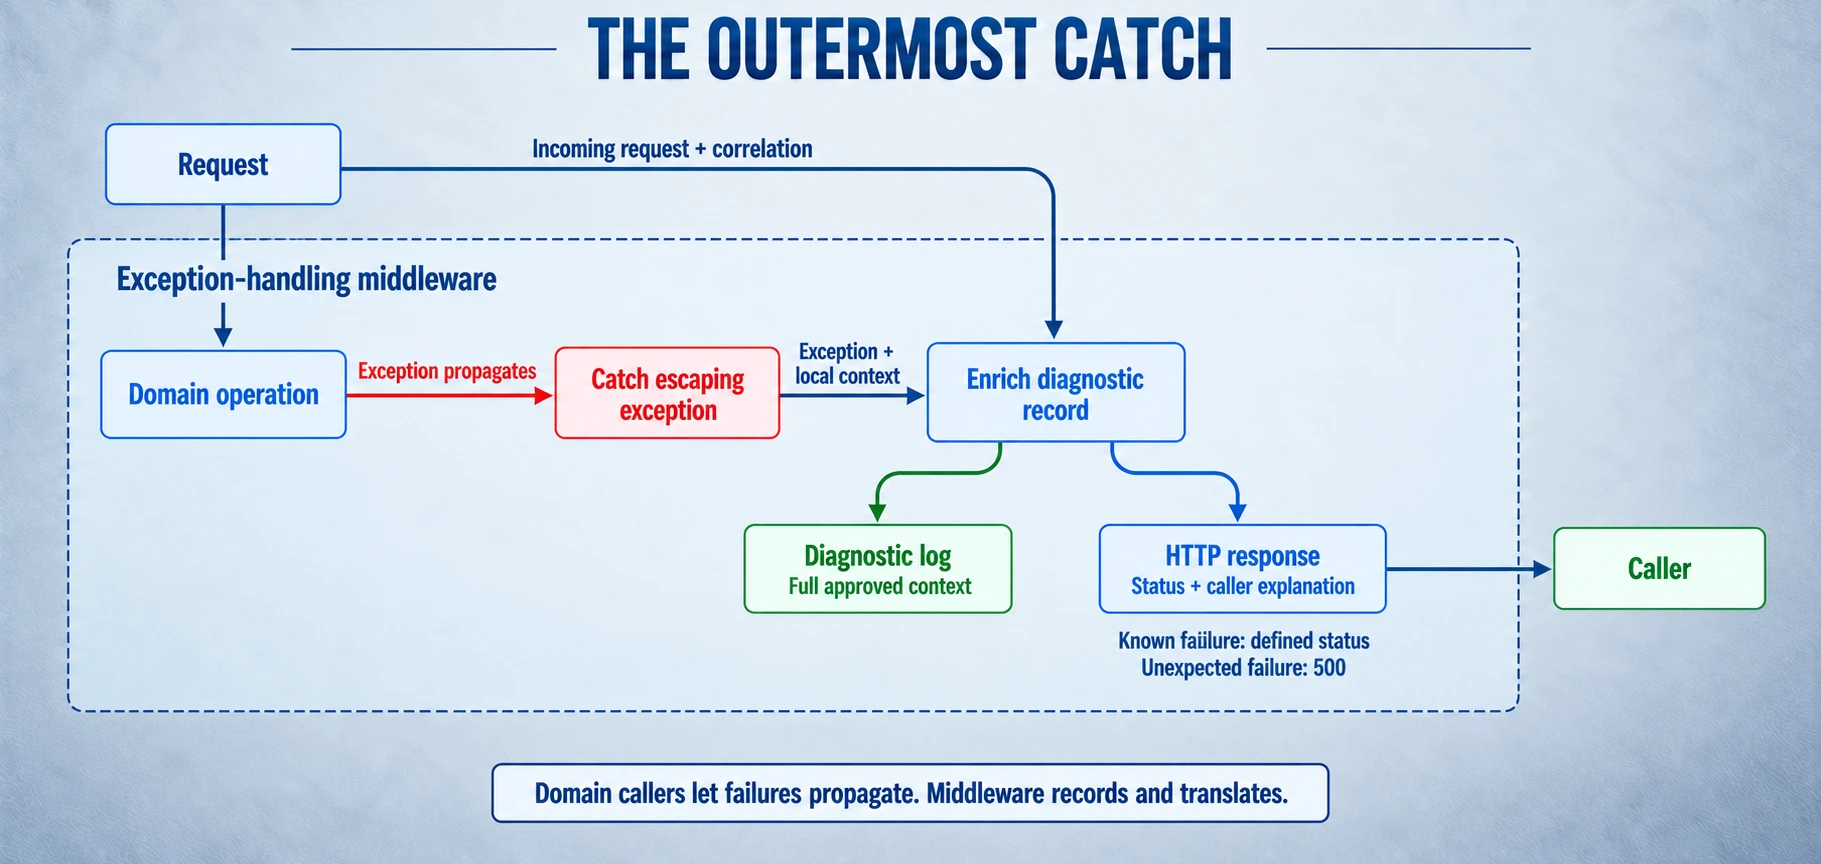
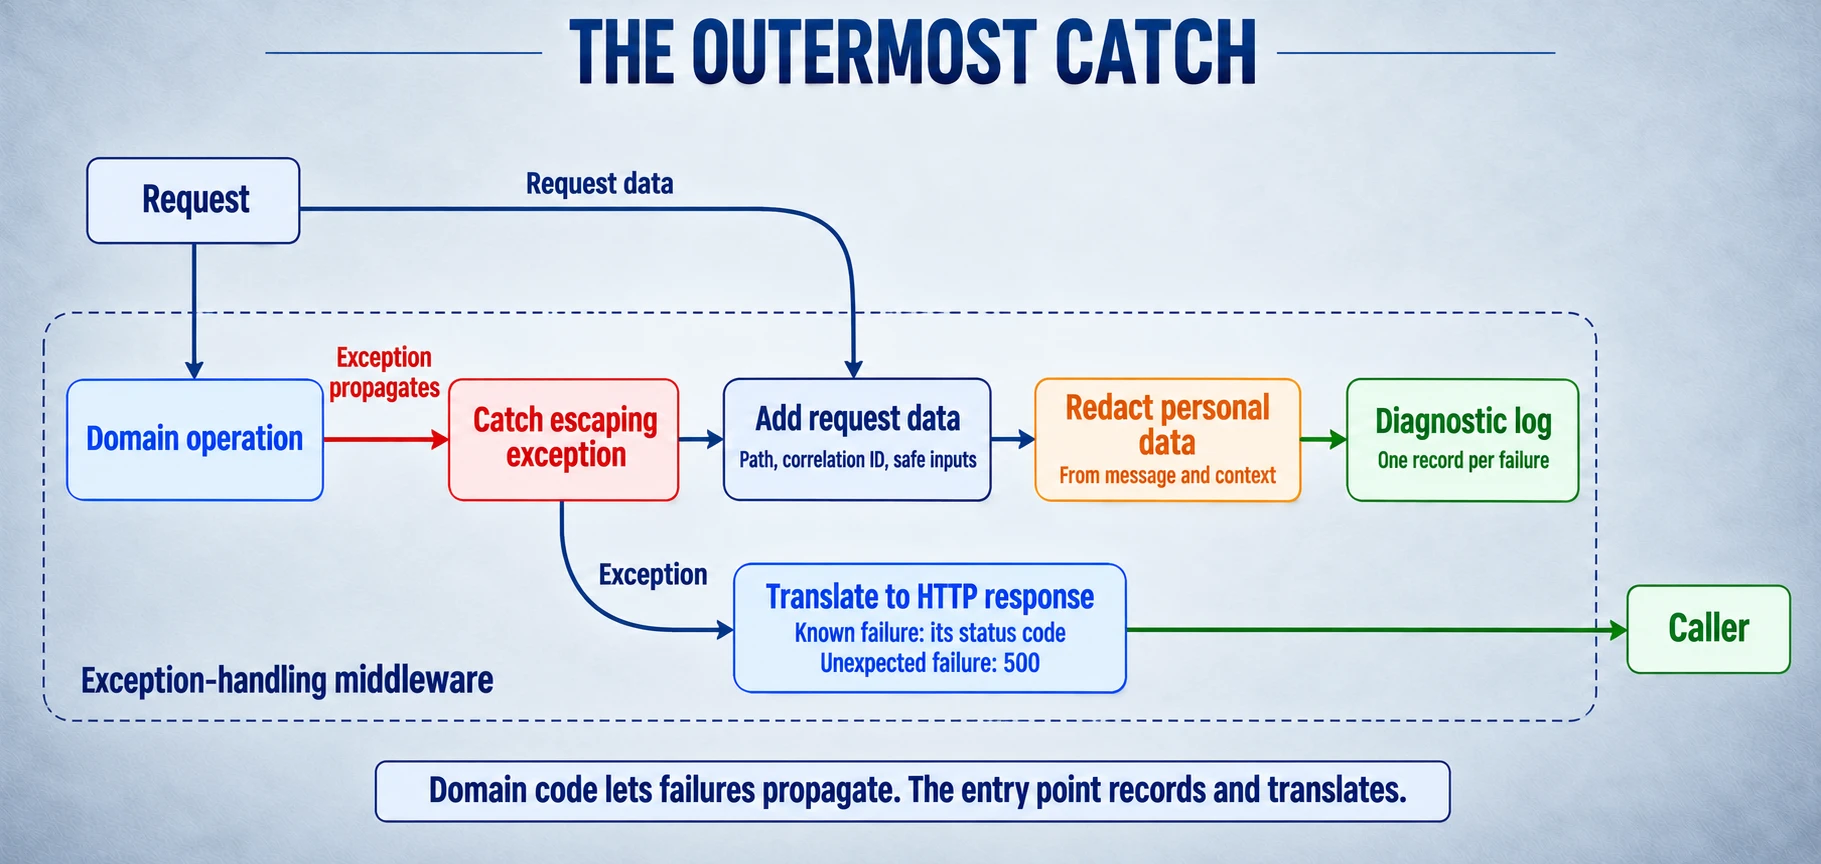
Regenerate the middleware diagram with redaction
The Part 2 middleware diagram misspelled "failure" and skipped the
redaction step the article describes. The new drawing follows the
middleware's order: catch, add request data, redact, log once, and
separately translate the exception for the caller. Alt text, caption,
prompt record and the review backlog are updated. Dates are unchanged.

diff --git a/public/images/diagrams/exception-middleware-enrichment.prompt.md b/public/images/diagrams/exception-middleware-enrichment.prompt.md
@@ -1,10 +1,15 @@
-# exception middleware enrichment
+# Exception middleware enrichment
 
-Generated October 2, 2026, with the built-in image generator and the approved
-flat diagram reference. Selected for the Programming to Exceptions articles.
+Regenerated November 2, 2026, for Step 6 of
+**Programming to Exceptions, Part 2: Diagnostics and Boundaries**. It replaces the
+October 2 drawing, which misspelled "failure" and did not show redaction. The new
+drawing follows the article's middleware: it catches the exception, adds the
+request data, redacts personal data, logs one record, and separately translates
+the exception into the caller's response. Style: the shared flat fine-line prompt
+in `prompts/generate-flat-fine-line-diagram.md`. Style reference attached:
+`docs/style-references/flat-fine-line-diagram.webp`.
 
 ```text
-
 Use case: infographic-diagram.
 
 Create a precise flat technical diagram in the visual style of the supplied
@@ -43,11 +48,19 @@ Avoid doubled borders, thick edge shadows, bevels, extrusion, or dimensional
 platforms. Keep card fills and outlines visually flat.
 
 CONNECTIONS
-Draw crisp navy connectors through open space, using restrained rounded bends
-where needed. Connectors may be slightly heavier than card borders, approximately
+Draw navy arrows through open space. Use straight arrows for aligned top-to-bottom
+connections, perpendicular to both box edges. Use smooth curves for offset
+connections, including branches, merges and routes around components. For top-to-bottom flows,
+leave generous vertical gaps between successive levels of cards and increase
+the canvas height to give each curve room. Avoid right-angle turns and tight
+rounded elbows. Connectors may be slightly heavier than card borders, approximately
 2.5 pixels at an image width of 1820 pixels, with clearly visible arrowheads.
 Keep every endpoint and arrow direction faithful to the drawing brief. Maintain
 clear gaps around unrelated cards and text. Keep independent paths distinct.
+Anchor connectors at edge centers, bottom center to top center for downward flow.
+Branches share a source anchor; converging paths share a destination anchor.
+Allow clear overlap near shared anchors. Use another edge's center when direction
+requires it.
 For inheritance diagrams, arrowheads point from descendants toward ancestors.
 For other diagrams, use the directions and relationship meanings in the brief.
 
@@ -69,10 +82,89 @@ connections, boundaries, and labels in the brief. No copied reference content,
 invented relationships, unrelated decoration, logo, or watermark.
 
 DRAWING BRIEF
-Title "THE OUTERMOST CATCH". Wide landscape.
-A dashed enclosure "Exception-handling middleware" surrounds a central diagram. A small "Request" card top-left enters a blue "Domain operation" card below. A red arrow labelled "Exception propagates" from Domain operation flows right to "Catch escaping exception".
-Two arrows into a central blue card "Enrich diagnostic record": one from Catch escaping exception labelled "Exception + local context", and a separate connector from original Request card labelled "Incoming request + correlation". Preserve visibly that middleware has both inputs.
-Enrich diagnostic record splits into two independent outputs: lower-left "Diagnostic log" with subtitle "Full approved context", lower-right "HTTP response" with subtitle "Status + caller explanation". Response arrow leaves middleware to an external "Caller" card. Diagnostic log is internal. A small note under HTTP response: "Known failure: defined status" and "Unexpected failure: 500". Do not show logging as recovery or returning into Domain operation.
-Footer "Domain callers let failures propagate. Middleware records and translates."
-All connectors exact origin to destination and clearly directional. Red for failure propagation, navy for request and processing, green or blue for normal HTTP/log outputs. Seven named cards Request, Domain operation, Catch escaping exception, Enrich diagnostic record, Diagnostic log, HTTP response, Caller. No inheritance symbols or icons. Clean typography and delicate outlines.
+Subject and reader takeaway: the exception-handling middleware is the only
+try/catch in the system, at its entry point. A failure propagates out of the
+domain code and the middleware catches it. On the logging path it adds the
+request data, redacts personal data, and writes one diagnostic record. On the
+response path it translates the exception into the HTTP response the caller
+sees.
+
+Main title, verbatim: "THE OUTERMOST CATCH"
+
+Components, exact labels, and counts (exactly eight cards):
+- "Request": navy card, outside the enclosure, top-left.
+- "Domain operation": vivid-blue card, inside the enclosure, left end of the
+  main row.
+- "Catch escaping exception": red card, inside, main row.
+- "Add request data": navy card, inside, main row. Second smaller line:
+  "Path, correlation ID, safe inputs".
+- "Redact personal data": orange card, inside, main row. Second smaller line:
+  "From message and context".
+- "Diagnostic log": green card, inside, right end of the main row. Second
+  smaller line: "One record per failure".
+- "Translate to HTTP response": vivid-blue card, inside, on a lower row,
+  directly below "Add request data". Two smaller lines inside it:
+  "Known failure: its status code" and "Unexpected failure: 500".
+- "Caller": green card, outside the enclosure on the far right, level with
+  "Translate to HTTP response".
+
+Groups and their complete members: one lightly dashed rounded navy enclosure
+labelled at its BOTTOM-left inside corner "Exception-handling middleware",
+below "Domain operation", where no arrow passes; no arrow may cross the label. It
+contains completely: Domain operation, Catch escaping exception, Add request
+data, Redact personal data, Diagnostic log, Translate to HTTP response.
+"Request" and "Caller" are fully outside it.
+
+Connections: origin, destination, direction, and relationship meaning
+(exactly eight arrows):
+1. Navy arrow from "Request" down into the top of "Domain operation".
+2. Red arrow from "Domain operation" right to "Catch escaping exception",
+   labelled "Exception propagates".
+3. Navy arrow from "Catch escaping exception" right to "Add request data".
+4. Navy arrow from "Request" along the top of the image, then smoothly down
+   into the top of "Add request data", labelled "Request data". It crosses
+   the dashed boundary once, from above.
+5. Navy arrow from "Add request data" right to "Redact personal data".
+6. Green arrow from "Redact personal data" right to "Diagnostic log".
+7. Navy arrow from the bottom of "Catch escaping exception" curving smoothly
+   down and right into the left edge of "Translate to HTTP response",
+   labelled "Exception".
+8. Green arrow from "Translate to HTTP response" right, crossing the dashed
+   boundary, to "Caller".
+No arrows leave "Diagnostic log". No arrow returns into "Domain operation".
+No other arrows.
+
+Colour meanings: red = the failure propagating; navy = request data and
+processing steps; orange = redaction; green = outputs (the log record and the
+caller's response); vivid blue = the domain code and the response translation.
+
+Markers and their meanings: none. No icons.
+
+Legend text, verbatim, or no legend: no legend.
+
+Footer, verbatim, inside a fine navy rounded box centred below the enclosure:
+"Domain code lets failures propagate. The entry point records and translates."
+
+Layout and aspect ratio: wide landscape, approximately 2.1:1 (for example
+2400 by 1140 pixels or larger). The main row of five cards runs left to right
+across the middle of the enclosure with even gaps. The lower row holds only
+"Translate to HTTP response" inside and "Caller" outside on the right. Leave
+generous space so all eight cards and every arrow label remain readable when
+the image is shown about 700 pixels wide.
+
+Content reference: none.
 ```
+
+## Delivered asset
+
+Generated November 2, 2026, with the built-in image tool through
+`tools/codex-desktop.sh exec`, using the prompt above and the style reference.
+The second generation was selected. The first had the enclosure label at the
+top-left, where the arrow from "Request" crossed it, so the label moved to the
+bottom-left corner in the prompt above. Delivered PNG: 1821 by 864 pixels, kept
+outside the repository. Optimized copy: `exception-middleware-enrichment.webp`,
+1821 by 864 pixels, WebP quality 90.
+
+Checked against the brief: all labels exact; eight cards and eight arrows;
+"Request" and "Caller" outside the enclosure; the red arrow is the only failure
+path; no arrow leaves "Diagnostic log" or returns into "Domain operation".

diff --git a/src/content/writing/programming-to-exceptions-diagnostics-and-boundaries.md b/src/content/writing/programming-to-exceptions-diagnostics-and-boundaries.md
@@ -342,8 +342,8 @@ Each collaborator is a small class with one job. `RequestDiagnostics` knows whic
 
 <!-- diagram:start exception-middleware-enrichment -->
 <figure id="exception-middleware-enrichment" class="article-diagram article-diagram--raster">
-  <img class="article-diagram__image" src="/images/diagrams/exception-middleware-enrichment.webp" alt="Exception-handling middleware surrounds a domain operation. A propagated exception and the original request meet at diagnostic enrichment, then produce an internal log record and a separate caller-safe HTTP response." width="1821" height="864" loading="lazy" decoding="async" />
-  <figcaption>The middleware has both the exception and the incoming request. It combines them into one diagnostic record for the log, and writes a separate response for the caller.</figcaption>
+  <img class="article-diagram__image" src="/images/diagrams/exception-middleware-enrichment.webp" alt="Exception-handling middleware surrounds a domain operation. A request enters the domain operation, and an exception propagates out of it to Catch escaping exception. From there, one path runs through Add request data, which also receives the request data, then Redact personal data, then Diagnostic log. A second path takes the exception to Translate to HTTP response, which sends a status code for a known failure or 500 for an unexpected one to the caller outside the middleware." width="1821" height="864" loading="lazy" decoding="async" />
+  <figcaption>The middleware catches the exception, adds the request data, removes personal information and logs one record. Separately, it translates the exception into the response the caller sees.</figcaption>
   <p class="article-diagram__full"><a href="/images/diagrams/exception-middleware-enrichment.webp">Open full-size diagram</a></p>
 </figure>
 <!-- diagram:end exception-middleware-enrichment -->

diff --git a/docs/article-review-backlog.md b/docs/article-review-backlog.md
@@ -12,9 +12,9 @@ existing links resolve.
 Part 2, **Programming to Exceptions, Part 2: Diagnostics and Boundaries**, now
 publishes the same kind of eight-step teaching rewrite, also reviewed directly by
 Shiv without the independent fresh-session review. Its sixteen earlier section
-anchors are retained the same way. The reused middleware diagram,
-`exception-middleware-enrichment.webp`, misspells "failure" as "faiilure" and does
-not show the redaction step the article now describes; regenerate it.
+anchors are retained the same way. Its middleware diagram,
+`exception-middleware-enrichment.webp`, was regenerated the same day to fix a
+misspelling and show the redaction step.
 
 ## Mocking source attribution, October 25, 2026
 
